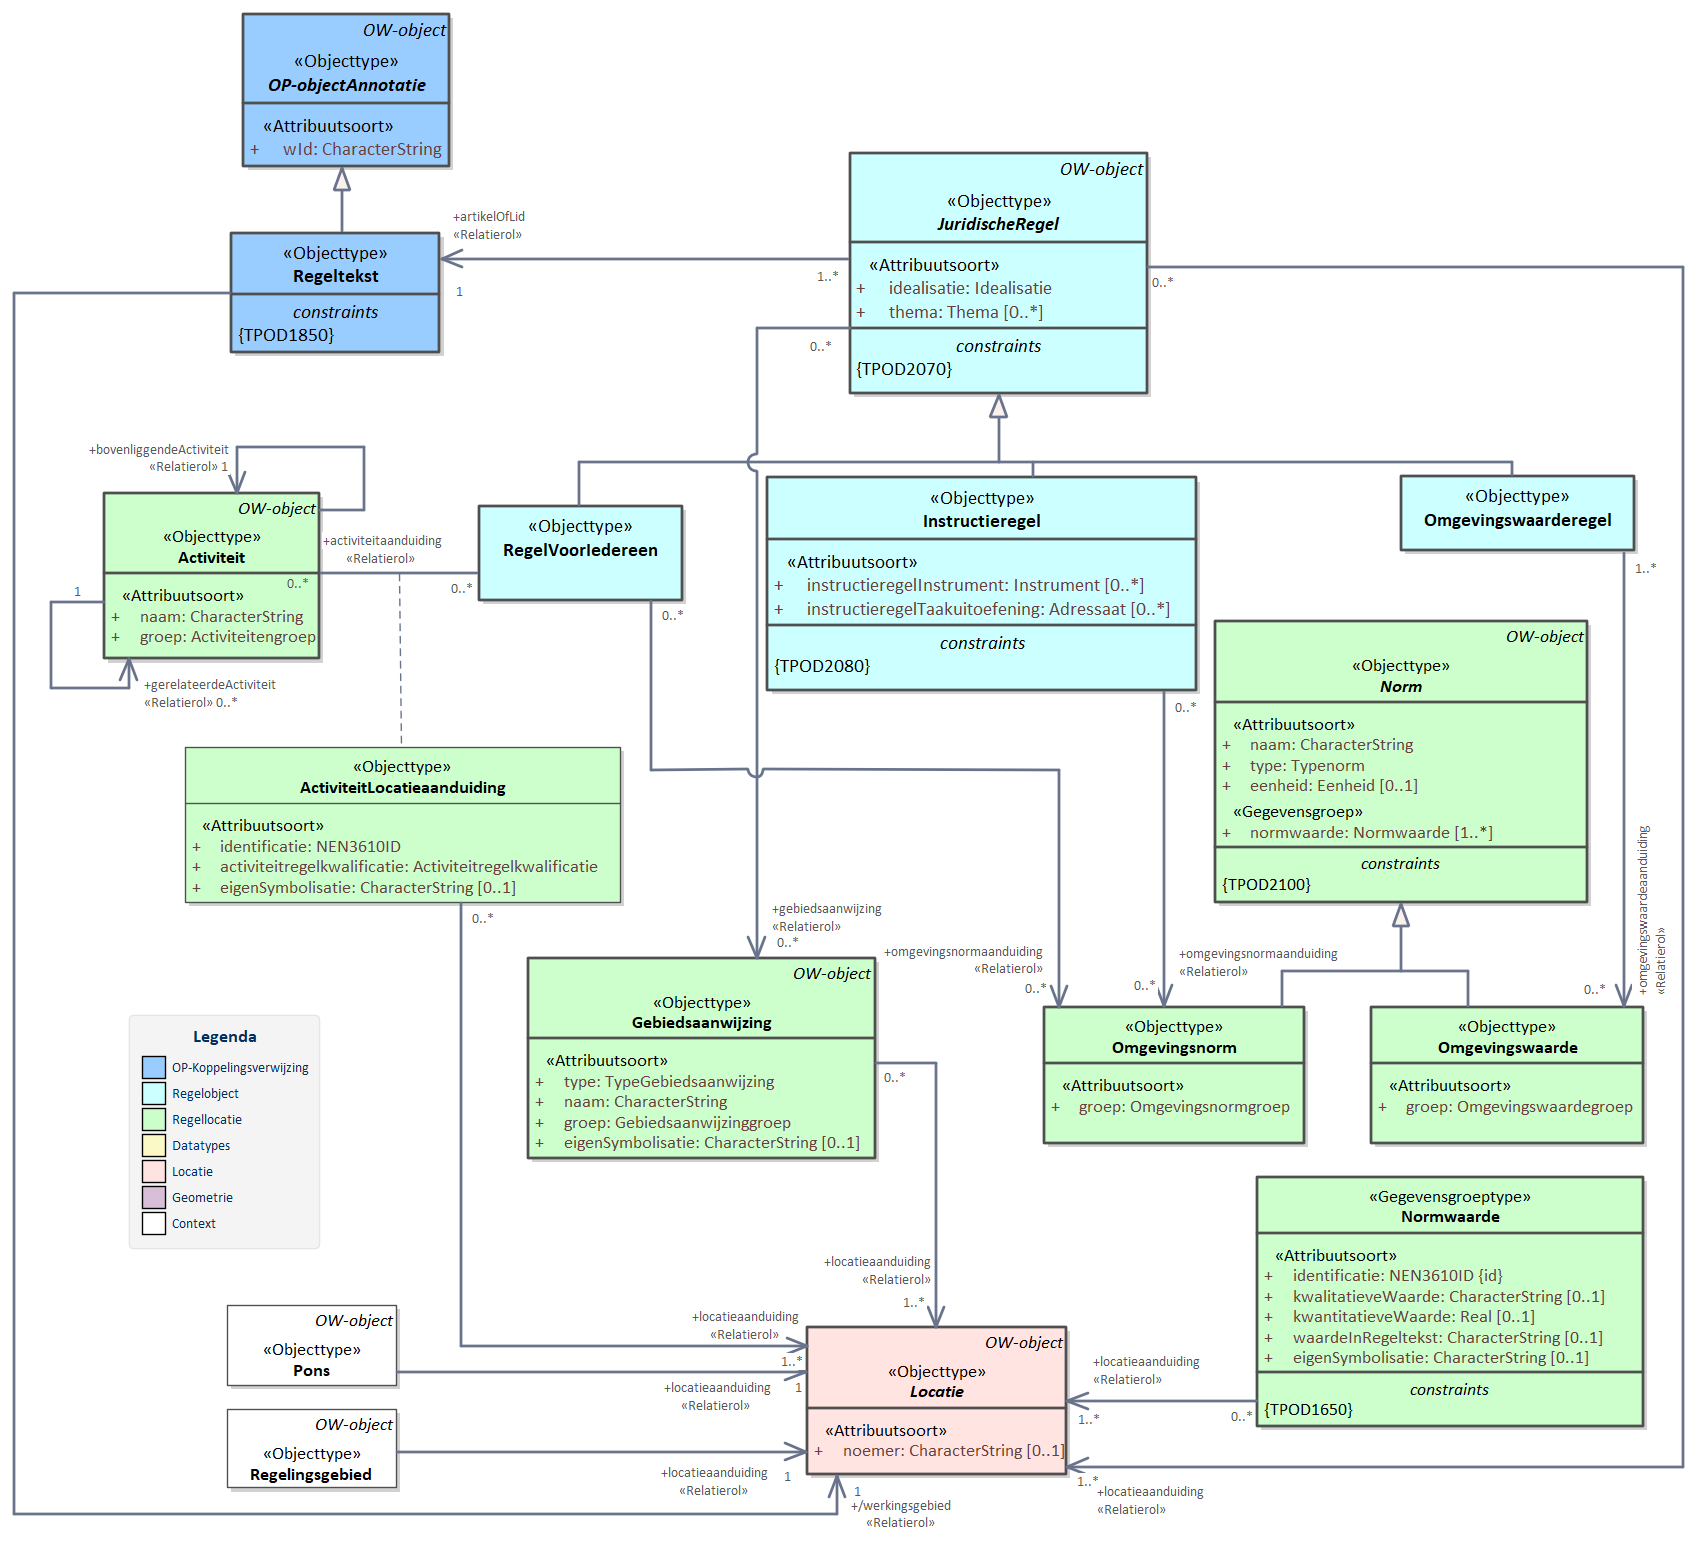
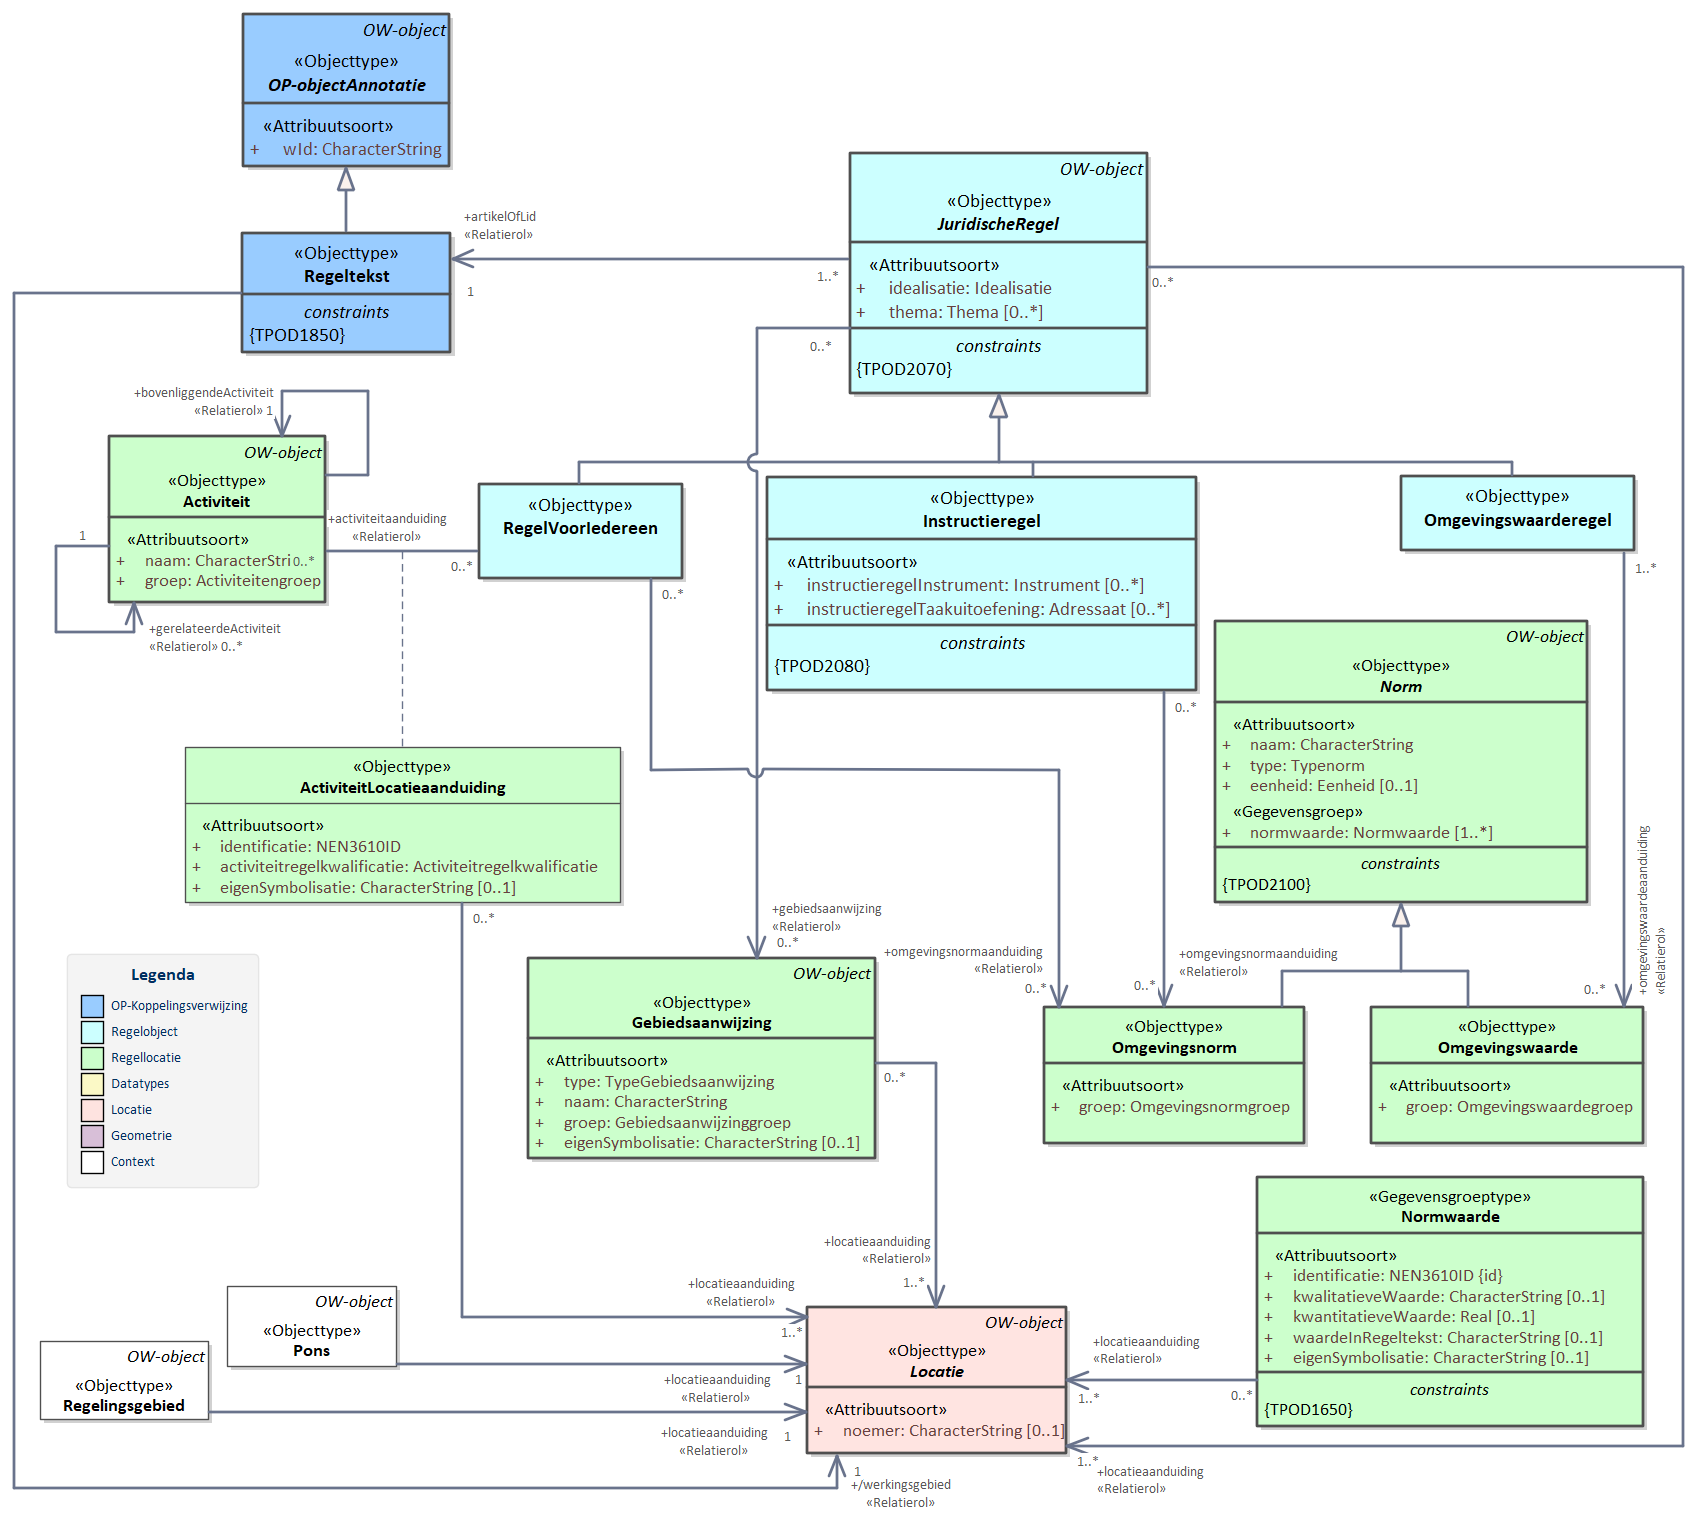
20200601_Oplevering

diff --git a/data/IMOW-cat.respec.html b/data/IMOW-cat.respec.html
@@ -1909,7 +1909,7 @@
          <h4>   Artikelstructuur - overzicht</h4>
          <div class="imageinfo overview">
             <figure><img src="data/Images/EAID_C66AEA1E_A7E2_4ab7_BEAA_00DD0F75A4B2.png" usemap="#imagemap-EAID_C66AEA1E_A7E2_4ab7_BEAA_00DD0F75A4B2" alt="Diagram &#xA;                        &#xA;                        De tekst van een regeling die volgens de artikelstructuur bevat een geneste structuur die bijvoorbeeld Hoofdstukken, Artikelen, Paragrafen of Subparagrafen kan bevatten. Op het diepste niveau zit de inhoudelijk informatie van de regeling, die inhoud zit in artikelen. Soms is een artikel opgesplitst in leden. In dat geval zit de inhoud in de leden. In een artikel zonder leden zit de inhoud in het artikel zelf.  &#xA;                        In de artikelstructuur zitten de annotaties op de artikelen of leden. Het Regeltekst object bevat de verwijzing naar het wId van de STOP tekst die wordt geannoteerd. Vervolgens kunnen er één of meerdere Juridische regels zijn die verbonden zijn aan de regeltekst. Een juridische regel is de in een annotatie opgenomen informatie over een regel met juridische werkingskracht. Een juridische regel heeft drie subtypen (RegelVoorIedereen, Instructieregel, Omgevingswaarderegel) die allen specifieke eigenschappen bevatten o.a. omvat in de objecten Activiteit voor het annoteren van een activiteit, Gebiedsaanwijzing om een benoemd gebied te duiden, Omgevingswaarde om een toegestane of gewenste waarde aan een Locatie toe te kennen en een Omgevingsnorm om een waarde als norm aan een Locatie te koppelen. Het Pons object wordt gebruikt om aan te geven dat een gebied door een Regeling is ingevuld en niet meer door de ruimtelijke plannen o.b.v. Wro en/of Chw die onderdeel zijn van het tijdelijke deel van het omgevingsplan. Dit kan alleen gebruikt worden bij een omgevingsplan.&#xA;                     "><figcaption>Artikelstructuur</figcaption>
-            </figure><map name="imagemap-EAID_C66AEA1E_A7E2_4ab7_BEAA_00DD0F75A4B2"><area shape="rect" alt="OP-objectAnnotatie" coords="243,14,450,167" href="#global_class_OWobject_OPobjectAnnotatie"><area shape="rect" alt="Pons" coords="227,1305,397,1386" href="#global_class_Artikelstructuur_Pons"><area shape="rect" alt="Regelingsgebied" coords="227,1409,397,1488" href="#global_class_Artikelstructuur_Regelingsgebied"><area shape="rect" alt="ActiviteitLocatieaanduiding" coords="185,747,621,903" href="#global_class_Artikelstructuur_ActiviteitLocatieaanduiding"><area shape="rect" alt="Gebiedsaanwijzing" coords="528,958,876,1159" href="#global_class_Artikelstructuur_Gebiedsaanwijzing"><area shape="rect" alt="Normwaarde" coords="1257,1177,1644,1427" href="#global_class_Artikelstructuur_Normwaarde"><area shape="rect" alt="Norm" coords="1215,621,1588,903" href="#global_class_Artikelstructuur_Norm"><area shape="rect" alt="Omgevingswaarde" coords="1371,1007,1644,1144" href="#global_class_Artikelstructuur_Omgevingswaarde"><area shape="rect" alt="Omgevingsnorm" coords="1044,1007,1305,1144" href="#global_class_Artikelstructuur_Omgevingsnorm"><area shape="rect" alt="Activiteit" coords="104,493,320,659" href="#global_class_Artikelstructuur_Activiteit"><area shape="rect" alt="Locatie" coords="807,1327,1067,1475" href="#global_class_Locatie_Locatie"><area shape="rect" alt="RegelVoorIedereen" coords="479,506,683,601" href="#global_class_Artikelstructuur_RegelVoorIedereen"><area shape="rect" alt="Instructieregel" coords="767,477,1197,691" href="#global_class_Artikelstructuur_Instructieregel"><area shape="rect" alt="Omgevingswaarderegel" coords="1401,476,1635,551" href="#global_class_Artikelstructuur_Omgevingswaarderegel"><area shape="rect" alt="JuridischeRegel" coords="850,153,1148,394" href="#global_class_Artikelstructuur_JuridischeRegel"><area shape="rect" alt="Regeltekst" coords="231,233,440,353" href="#global_class_Artikelstructuur_Regeltekst"></map><p>
+            </figure><map name="imagemap-EAID_C66AEA1E_A7E2_4ab7_BEAA_00DD0F75A4B2"><area shape="rect" alt="OP-objectAnnotatie" coords="243,14,450,167" href="#global_class_OWobject_OPobjectAnnotatie"><area shape="rect" alt="Pons" coords="227,1286,397,1367" href="#global_class_Artikelstructuur_Pons"><area shape="rect" alt="Regelingsgebied" coords="40,1341,209,1420" href="#global_class_Artikelstructuur_Regelingsgebied"><area shape="rect" alt="ActiviteitLocatieaanduiding" coords="185,747,621,903" href="#global_class_Artikelstructuur_ActiviteitLocatieaanduiding"><area shape="rect" alt="Gebiedsaanwijzing" coords="528,958,876,1159" href="#global_class_Artikelstructuur_Gebiedsaanwijzing"><area shape="rect" alt="Normwaarde" coords="1257,1177,1644,1427" href="#global_class_Artikelstructuur_Normwaarde"><area shape="rect" alt="Norm" coords="1215,621,1588,903" href="#global_class_Artikelstructuur_Norm"><area shape="rect" alt="Omgevingswaarde" coords="1371,1007,1644,1144" href="#global_class_Artikelstructuur_Omgevingswaarde"><area shape="rect" alt="Omgevingsnorm" coords="1044,1007,1305,1144" href="#global_class_Artikelstructuur_Omgevingsnorm"><area shape="rect" alt="Activiteit" coords="109,436,326,603" href="#global_class_Artikelstructuur_Activiteit"><area shape="rect" alt="Locatie" coords="807,1307,1067,1454" href="#global_class_Locatie_Locatie"><area shape="rect" alt="RegelVoorIedereen" coords="479,484,683,579" href="#global_class_Artikelstructuur_RegelVoorIedereen"><area shape="rect" alt="Instructieregel" coords="767,477,1197,691" href="#global_class_Artikelstructuur_Instructieregel"><area shape="rect" alt="Omgevingswaarderegel" coords="1401,476,1635,551" href="#global_class_Artikelstructuur_Omgevingswaarderegel"><area shape="rect" alt="JuridischeRegel" coords="850,153,1148,394" href="#global_class_Artikelstructuur_JuridischeRegel"><area shape="rect" alt="Regeltekst" coords="242,233,451,353" href="#global_class_Artikelstructuur_Regeltekst"></map><p>
                
                <p></p>
                
